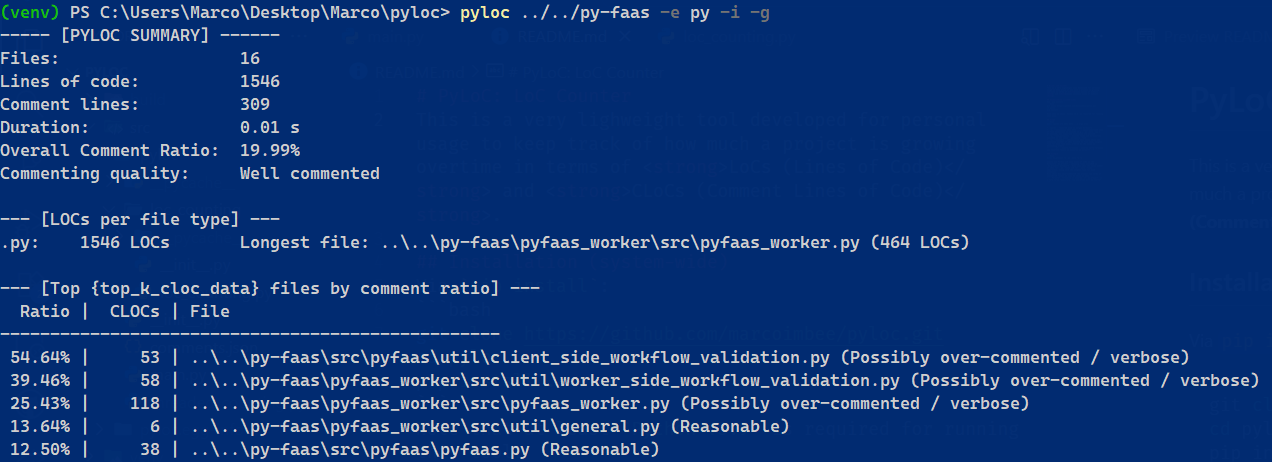
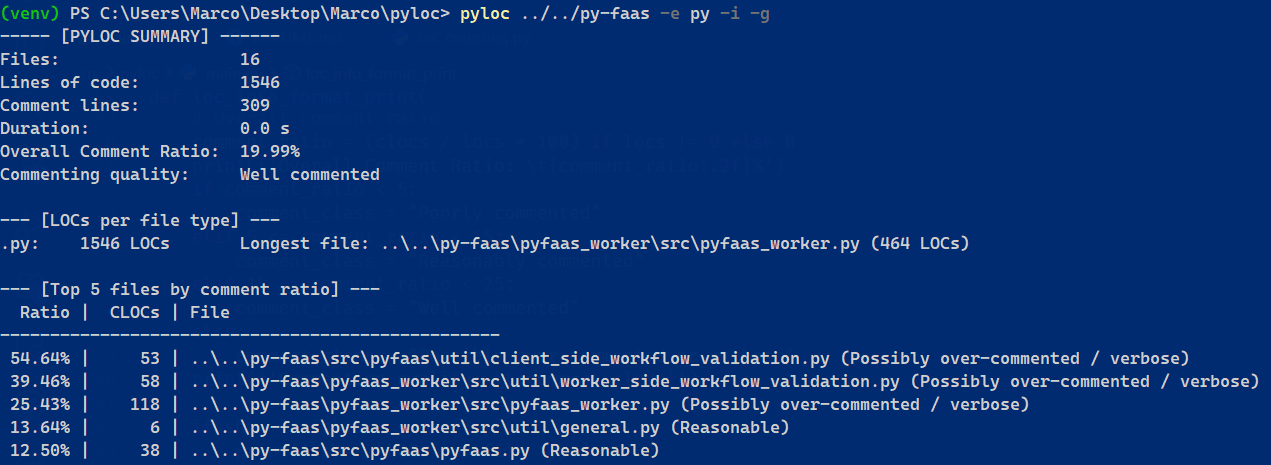
docs: fixed typo

diff --git a/src/pyloc/main.py b/src/pyloc/main.py
@@ -88,7 +88,7 @@ def loc_info_format_print(
             else:
                 print(f".{ext}: \t{count} LOCs")
 
-        print('\n--- [Top {top_k_cloc_data} files by comment ratio] ---')
+        print(f'\n--- [Top {top_k_cloc_data} files by comment ratio] ---')
         print(f"{'Ratio':>7} | {'CLOCs':>6} | File")
         print('-'*50)
         for _ in range(min(top_k_cloc_data, len(comment_lines_data_heap))):
